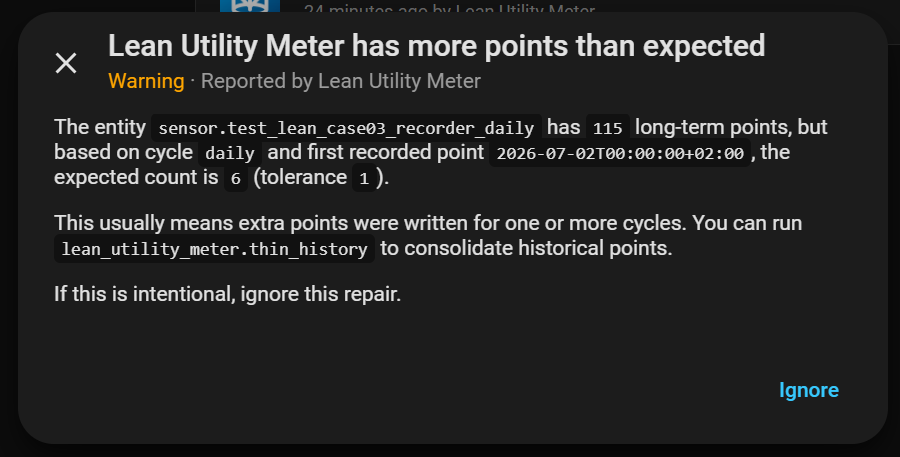
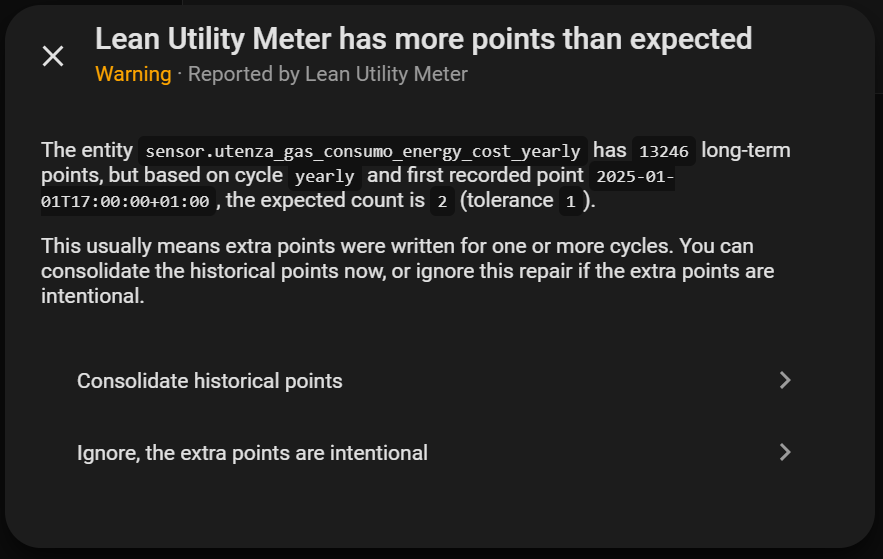
Refresh repairs docs screenshots and add thin_history action shot
Normalize repair screenshots to consistent img tags at width 480,
update the unexpected_points_for_cycle captures, and add a screenshot
of the thin_history fix action below the remediation step.

diff --git a/docs/repairs.md b/docs/repairs.md
@@ -6,26 +6,28 @@ The integration monitors its own health and raises Home Assistant **Repairs** wh
 
 ## `recorder_not_excluded`
 
-![image](img/recorder_not_excluded_head.png)
+<img src="img/recorder_not_excluded_head.png" alt="recorder_not_excluded_head" width="480" />
 
 **Trigger** — the Lean entity is currently *included* by recorder filters.
 
 Lean writes its consolidated history directly into LTS, so recorder state tracking adds nothing: it only bloats the short-term `states` table with high-frequency rows that will never be used (see [Why Recorder Should Be Excluded](how-it-works.md#why-recorder-should-be-excluded)). This Repair typically shows up when the recorder include/exclude rules were never aligned with the Lean recommendation — for example right after creating a new meter — or in test setups where inclusion is forced on purpose.
 
-<img src="img/recorder_not_excluded_details.png" alt="recorder_not_excluded_details" width="560" />
+<img src="img/recorder_not_excluded_details.png" alt="recorder_not_excluded_details" width="480" />
 
 **What to do** — in production, add the entity to the recorder `exclude` list and the Repair goes away. If the inclusion is an intentional test case, you can simply ignore it.
 
 ## `unexpected_points_for_cycle`
 
-![image](img/unexpected_points_for_cycle_head.png)
+<img src="img/unexpected_points_for_cycle_head.png" alt="unexpected_points_for_cycle_head" width="480" />
 
 **Trigger** — the entity is correctly excluded from recorder, but its LTS series contains *more* long-term points than the configured cycle should have produced (beyond a tolerance of 1 extra point).
 
 The expected count is computed from the data itself: starting from the timestamp of the first long-term point of the entity, the integration counts how many cycle boundaries have elapsed up to and including the current cycle, then compares that number with the actual row count. An overage means extra points were written for one or more cycles — typical causes are restart timing anomalies around rollover, noisy legacy history inherited from a classic utility meter, or older data that was never consolidated.
 
-<img src="img/unexpected_points_for_cycle_details.png" alt="unexpected_points_for_cycle_details" width="560" />
+<img src="img/unexpected_points_for_cycle_details.png" alt="unexpected_points_for_cycle_details" width="480" />
 
 **What to do** — run `lean_utility_meter.thin_history` on the affected entity to bring the series back to one point per cycle. If the extra points are intentional in your workflow, ignore the Repair.
+
+<img src="img/unexpected_points_for_cycle_action.png" alt="unexpected_points_for_cycle_action" width="560" />
 
 Two behaviors worth knowing: the Repair clears itself automatically as soon as the count returns within the expected range, and it is deliberately suppressed while recorder includes the entity — in that configuration an overage is expected, and the `recorder_not_excluded` Repair is already covering the root cause.